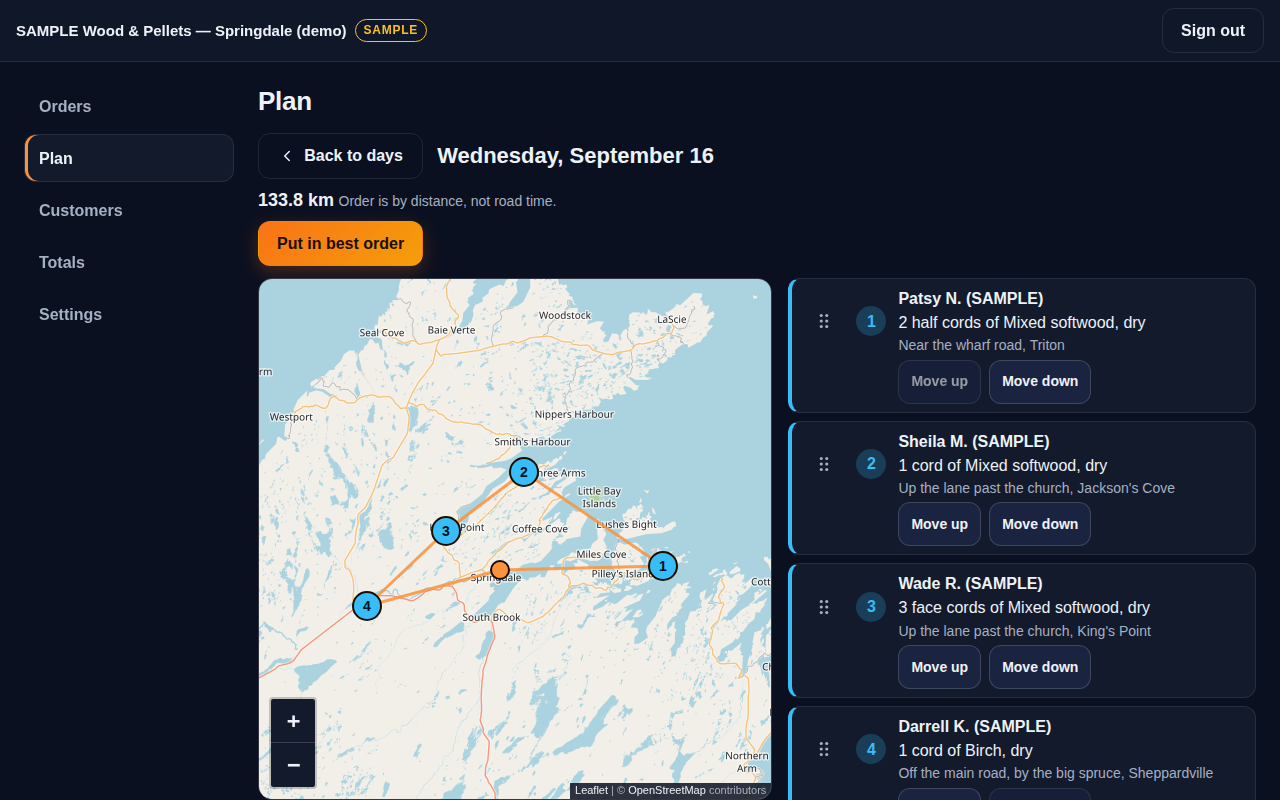
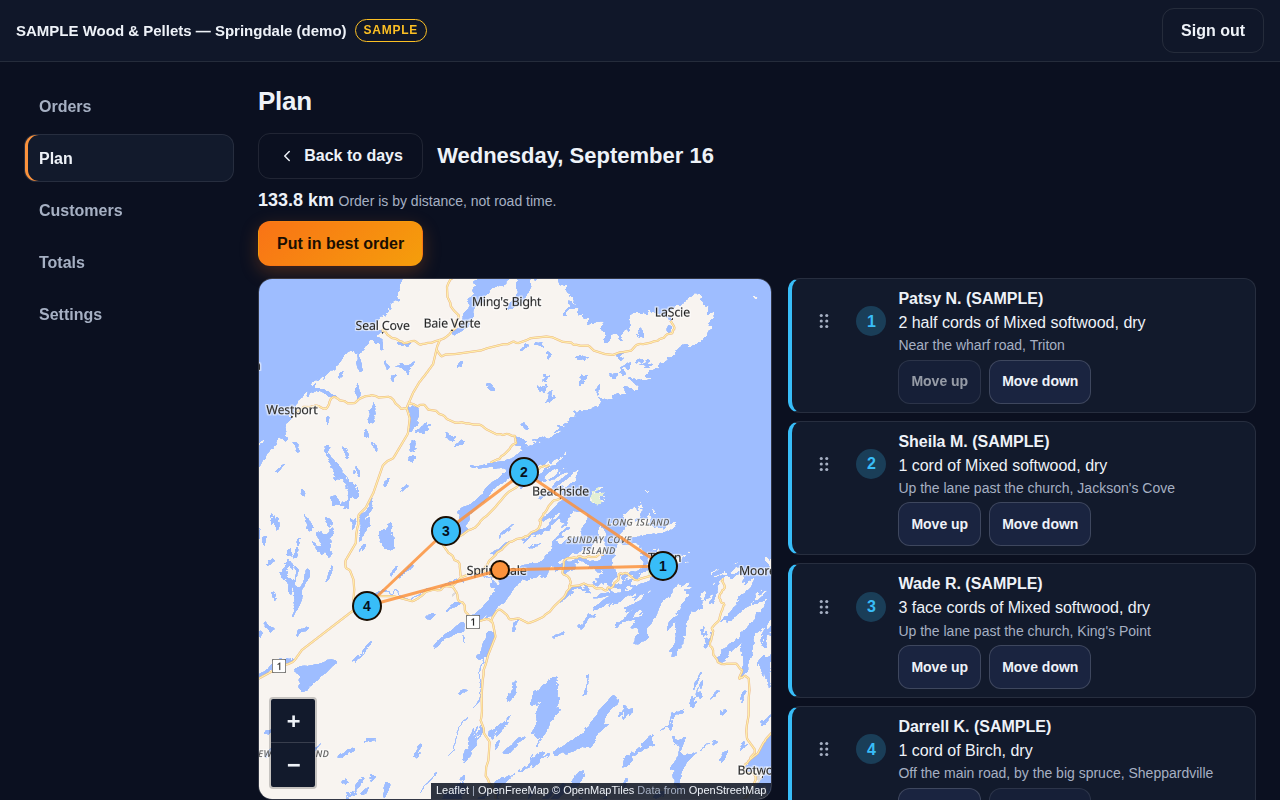
OpenFreeMap switch recorded: QA 164b9ad (unit 34, API 76, Playwright 198/0/6, attribution negative control red), screenshots with real tiles
Claude-Session: https://claude.ai/code/session_01JRogY96QtitzmucW5vSCAq

Changed region(s): [[0.1875, 0.3438, 0.625, 1.0], [0.1875, 0.9375, 0.2188, 0.9688]]

diff --git a/docs/build-report.md b/docs/build-report.md
@@ -127,3 +127,26 @@ Pinned QA worktree at `fbce0f5`, the specs this touches: `order` 16 / 0 / 0, `ta
 36 / 0 / 0, `journey` 4 / 0 / 0 (70 passed, 0 failed, chromium + webkit at 390 and 1280). Negative control (i)
 `negative-from-unit.mjs`: a copy that drops the unit turns the new check red. Customer screenshots retaken from the running demo
 (`docs/shots/phone-order.png`, `docs/shots/desktop-order.png`) and looked at.
+
+## Map tiles: OpenFreeMap (2026-09-14, lead only, Alexander's ask via Onyx)
+
+OSM's standard tiles can withdraw commercial access and the MapTiler / Stadia free plans are non-commercial, so the maps now draw
+**OpenFreeMap**'s Liberty vector style: free, commercial use explicitly allowed, no key, no limits, no SLA.
+
+- MapLibre GL 5.24.0 and @maplibre/maplibre-gl-leaflet 0.1.4, vendored and pinned (`app/public/vendor/`), inside the existing
+  Leaflet maps (order pin, dealer route, yard pin). `app/public/map.js` loads MapLibre only when a map mounts, so the order page's
+  first step stays quick, and Leaflet keeps pins, taps and the zoom controls (the plugin's GL layer is not interactive).
+- One place to switch: `MAP_STYLE_URL` and `MAP_ATTRIBUTION` under `[vars]` in `worker/wrangler.toml`, handed to the pages by
+  `GET /api/info` (`map.style`, `map.attribution`). The attribution is OpenFreeMap's own line (from its TileJSON): "OpenFreeMap ©
+  OpenMapTiles Data from OpenStreetMap", with links, visible on every map.
+- Tests never reach it: the helpers answer the style URL with a one-layer local stand-in style (no sources, so no tile, font or
+  sprite requests) and record which style URL was asked; OSM tile requests would now fail a test as a leak. `map.spec.mjs` checks,
+  in every project, the MapLibre canvas, the exact style URL, the attribution text and links, that the attribution is uncovered
+  (hit-test after scrolling to it), and that a tap still places the pin (with `tapMap`'s zoom-control guard).
+- A first local run caught my own check: the attribution was hit-tested without scrolling to it, so the order page's fixed price
+  bar (and off-screen at 390 on the route) read as "covered". The check now scrolls it to mid-screen first, as a person would.
+
+Pinned QA worktree at `164b9ad`: Worker unit 34 / 0 / 0, API 76 / 0 / 0; Playwright **198 passed / 0 failed / 6 skipped by
+width** (web 118 including map 8 and order 16, driver 76, journey 4). Negative control (j) `negative-map-attribution.mjs`: a copy
+whose map module never adds the attribution turns the map spec red; the journey control is red too. Screenshots retaken from the
+running demo with real OpenFreeMap tiles (`docs/shots/*-order-pin.png` new, `*-dealer-route.png`), and looked at.

diff --git a/README.md b/README.md
@@ -83,6 +83,9 @@ code, never the shipped code, and proves its check can fail.
 Polish after review (`fbce0f5`): product cards name the unit of their "from" price and the firewood icon is a woodpile; the
 affected specs (order, targets, dealer, journey) passed 70 / 0 / 2 skipped, and a 28th negative control went red.
 
+Map tiles switched to OpenFreeMap (`164b9ad`): Worker unit 34 / 0 / 0, API 76 / 0 / 0, Playwright 198 passed / 0 failed / 6
+skipped (a new map spec in every project), and a 29th negative control (the attribution) went red.
+
 ## What deploying needs
 
 Not done tonight; Alexander decides. Full checklist in `docs/DEPLOY.md`. In short: a D1 database `firewood-orders` (create, put
